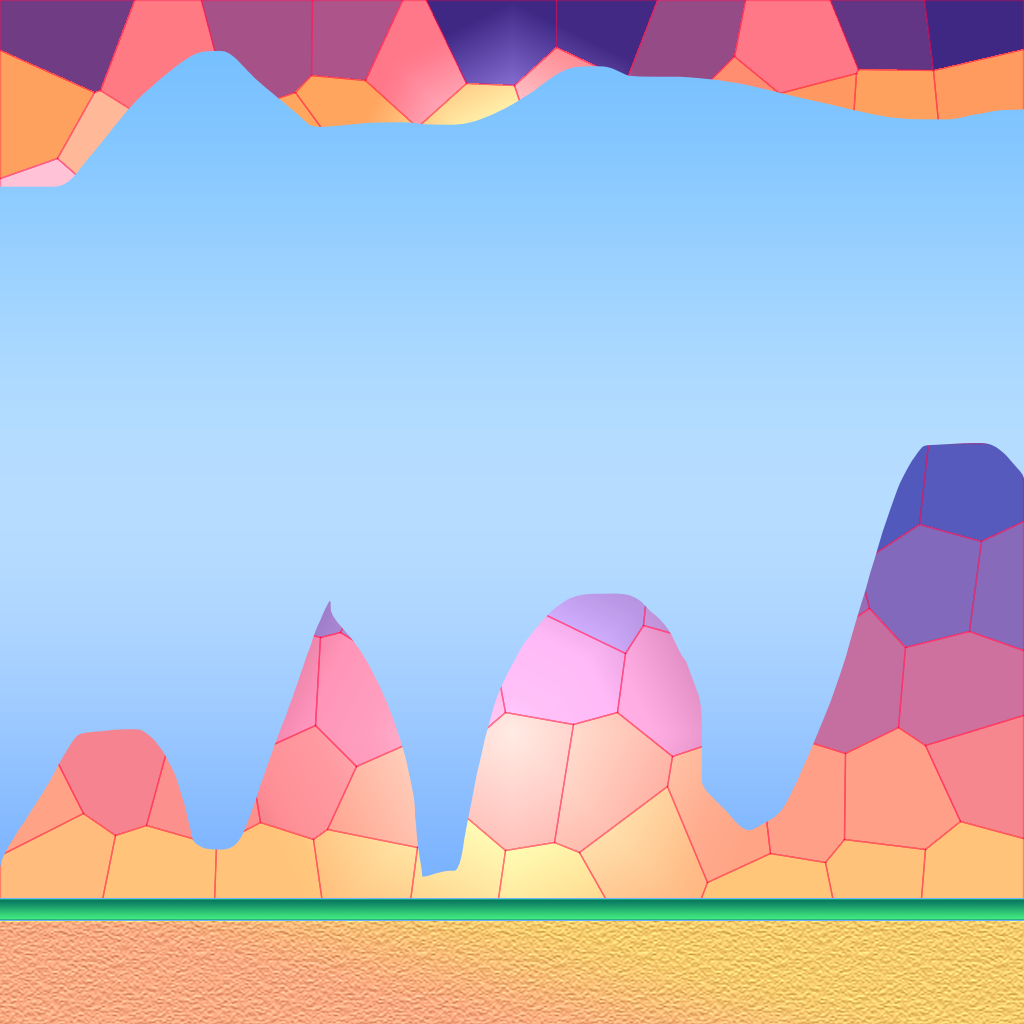
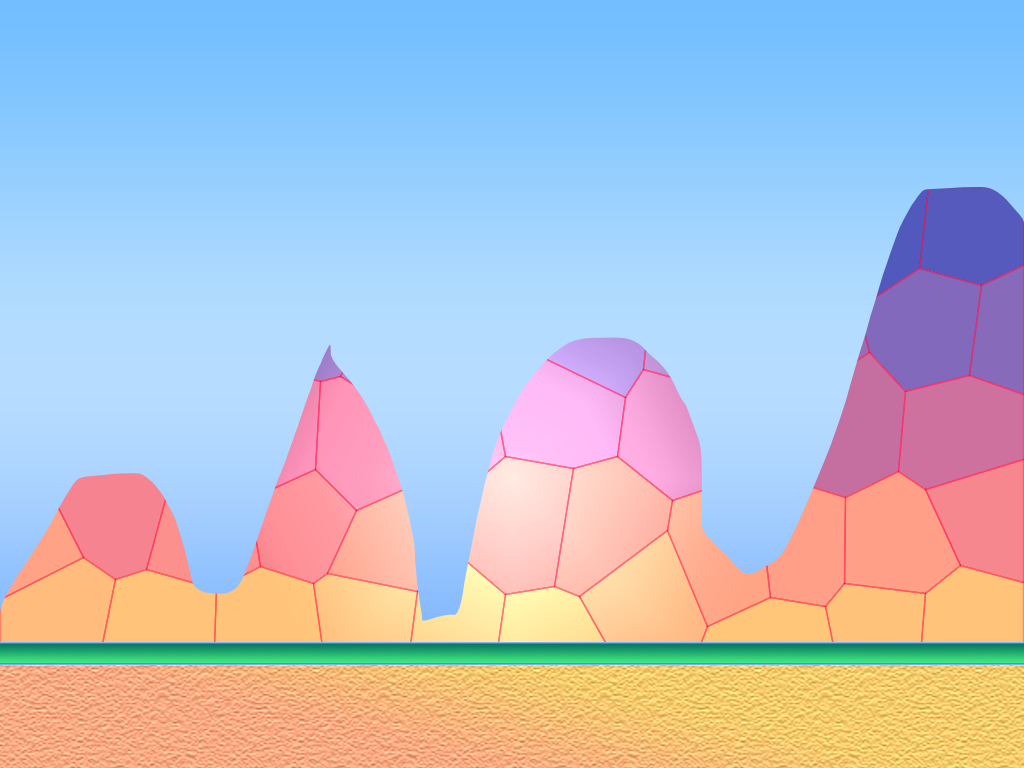
replace bg image

diff --git a/flappy.css b/flappy.css
@@ -1,3 +1,3 @@
 body {
-    background: url();
+    background: url(https://raw.githubusercontent.com/challenges-KW/flappy-bird-game/main/images/background.png);
 }
